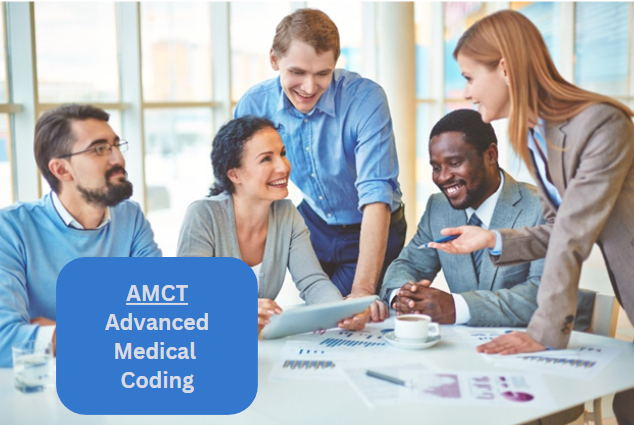
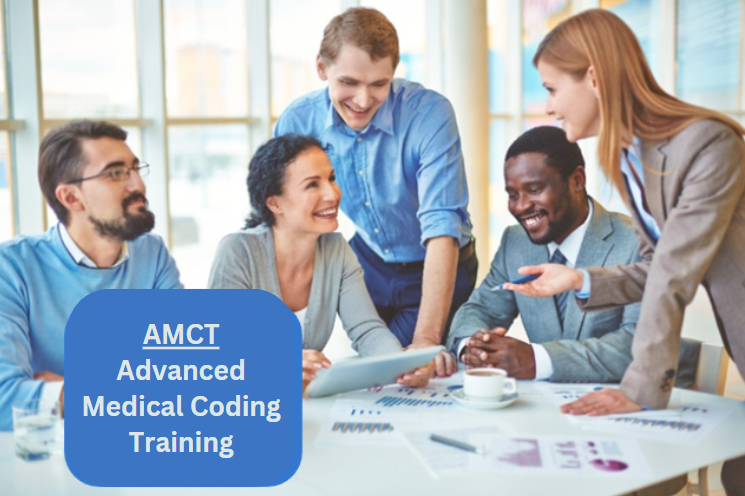
image

diff --git a/Training/Training-5/amct.html b/Training/Training-5/amct.html
@@ -63,7 +63,7 @@
                         </li>&nbsp;
                         <li class="rbt-breadcrumb-item active">AMCT</li>
                     </ul>
-                    <h2 class="title">Advanced Medical Coding</h2>
+                    <h2 class="title">Advanced Medical Coding Training</h2>
                     <h2 class="title">(AMCT)</h2>
                     <p class="description">Our course is designed to provide a comprehensive understanding of medical coding principles, preparing you for the CPC certification exam administered by the American Academy of Professional Coders (AAPC). This program integrates essential coding skills with advanced training required for CPC certification.</p>
 
@@ -119,7 +119,7 @@ style="display: flex; flex-direction: column; background-color: #fff; padding: 2
 <div class="course-content rbt-shadow-box mt--30" 
 id="coursecontent" 
 style="flex-direction: column; background-color: #fff; padding: 20px; border-radius: 8px;">
-<h2 style="font-weight: bold;text-decoration: underline;text-align: center;">overview</h2>
+<h2 style="font-weight: bold;text-decoration: underline;text-align: center;">Overview</h2>
 <br>
 <div class="course-head">
                 <h4>Course Offerings</h4>
